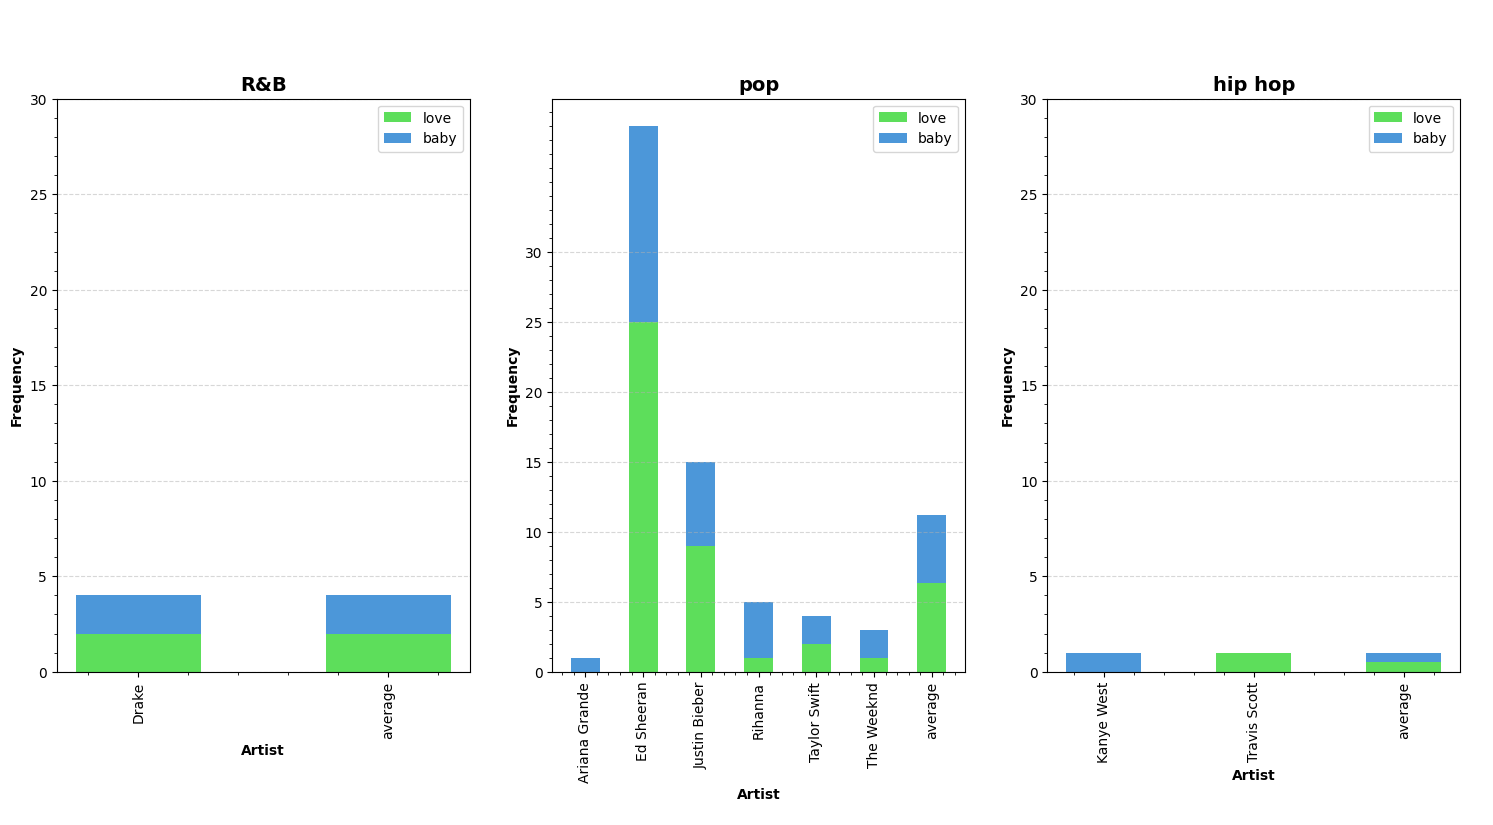
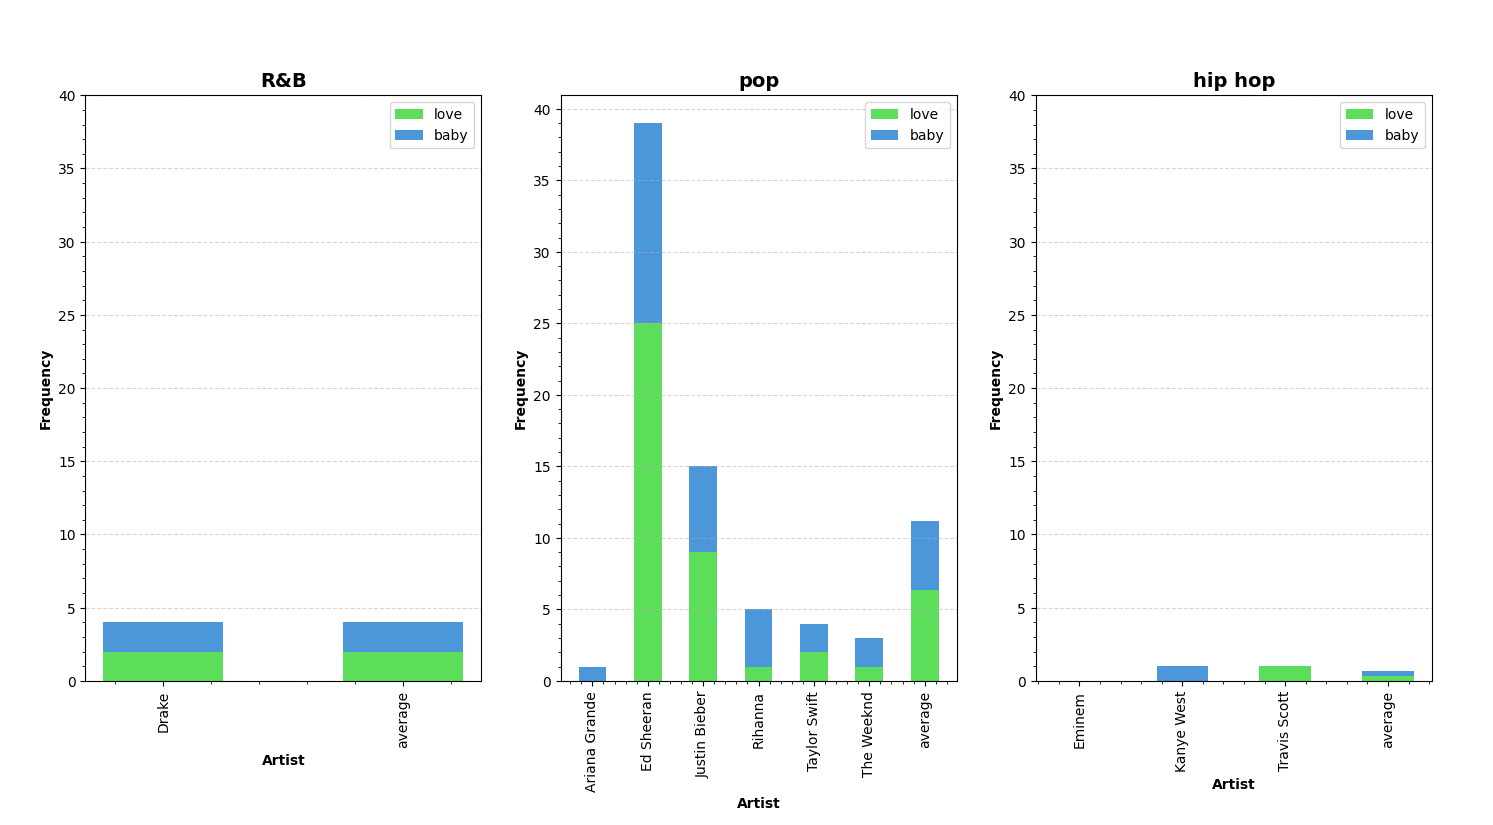
updating ReadMe

diff --git a/Python_scripts/Outputs_scripts/love_theme.py b/Python_scripts/Outputs_scripts/love_theme.py
@@ -14,10 +14,23 @@ with sqlite3.connect('song_lyrics.db') as connection:
     FROM lyrics l, song s
     WHERE (word = 'love' or word = 'baby') AND l.song_id = s.song_id'''
 
+    #make dataframe from query
     love_df = pd.DataFrame(cursor.execute(select_words_query).fetchall(), columns = ['word', 'frequency', 'genre', 'artist'])
+
+    #need to check for missing artist who do not use either word and add them to dataframe with frequency 0
+    select_artists_query = '''
+    SELECT artist, genre
+    FROM song;
+    '''
+    for artist, genre in cursor.execute(select_artists_query).fetchall():
+        if artist not in love_df['artist'].unique():
+            love_df = pd.concat([love_df, pd.DataFrame({'word': ['love', 'baby'], 'frequency': [0,0], 'genre': genre, 'artist': artist})]).reset_index(drop = True)
+    
+    
     #Make bar charts for each genre showing the frequenct for 'love' and 'baby' for each artist and an average across the genre
     #each genre on its own subplot. Stacked bar chart.
     fig, axs = plt.subplots(1,3)
+    #count variable will allow us to cycle through subplots for each genre
     count = 0
     #Want a chart for each genre, so loop through genres
     for genre in love_df['genre'].unique():
@@ -27,8 +40,6 @@ with sqlite3.connect('song_lyrics.db') as connection:
         add_zeros = pd.DataFrame(columns = ['word','frequency','genre','artist'])
         for artist in genre_love_df['artist'].unique():
             for word in ['love','baby']:
-                print(word)
-                print(str(genre_love_df['word'][genre_love_df['artist'] == artist]))
                 if word not in str(genre_love_df['word'][genre_love_df['artist'] == artist]):
                     add_zeros = pd.concat([add_zeros,pd.DataFrame({'word': word,'frequency': 0, 'genre': genre, 'artist': artist}, index = [len(add_zeros)])]).reset_index(drop = True)
                 else:
@@ -39,25 +50,21 @@ with sqlite3.connect('song_lyrics.db') as connection:
         genre_df = genre_love_df[['genre','word','frequency']].groupby(['genre','word'], as_index = False).mean()
         genre_df['artist'] = 'average'
         genre_love_df = pd.concat([genre_love_df, genre_df]).sort_values(by = ['artist','word']).reset_index(drop = True)
-        print(genre_love_df)
         #dictionary of lyric and frequencies
         lyrics = {
             'love': np.array(genre_love_df['frequency'][genre_love_df['word'] == 'love']),
             'baby': np.array(genre_love_df['frequency'][genre_love_df['word'] == 'baby'])
         }
-        print(lyrics.items())
-        print(genre_love_df['artist'].unique())
         
         #make stacked bar graphs
         bottom = 0
         for boolean, frequency in lyrics.items():
-            print('frequency; ', frequency)
             axs[count] = ax.bar(genre_love_df['artist'].unique(), frequency, width = 0.5, label = boolean, bottom = bottom, color = '#5dde5b' if boolean == 'love' else '#4c97d9')
             bottom += frequency
         
         #Format graph
         ax.set_title(genre, fontsize = 14, fontweight = 'bold')
-        ax.set_yticks(np.arange(0,31,5))
+        ax.set_yticks(np.arange(0,41,5))
         ax.minorticks_on()
         ax.set_ylabel('Frequency', fontweight = 'bold')
         ax.set_xlabel('Artist', fontweight = 'bold')

diff --git a/Python_scripts/Outputs_scripts/common_words_by_gender.py b/Python_scripts/Outputs_scripts/common_words_by_gender.py
@@ -4,6 +4,7 @@ import matplotlib.pyplot as plt
 import sqlite3
 
 #open sql connection
+#start with male artists
 with sqlite3.connect('song_lyrics.db') as connection:
     cursor = connection.cursor()
     #make queries to select words and frequency from lyrics
@@ -12,7 +13,7 @@ with sqlite3.connect('song_lyrics.db') as connection:
     FROM lyrics l , song s
     WHERE s.gender = 'male' AND l.song_id = s.song_id ;
     '''
-    #In order for our results to be interesting and tell us something, we want to disclude conjunctions and common words like the, and, a, and etc.
+    #In order for our results to provide useful insights, we want to disclude conjunctions and common words like the, and, a, and etc.
     eliminate = ['the','but','can','this','if','youre','and','a','to','of','in','is','you','that','it','for','an', 'was', 'on', 'i', 'me', 'its','with','just','my','im','your','we','be','your','get','got','so']
     #make dataframe of words
     common_words_df = pd.DataFrame(cursor.execute(select_words_query).fetchall()).groupby(0, as_index = False).sum().sort_values(by = 1,ascending = False)
@@ -34,7 +35,7 @@ with sqlite3.connect('song_lyrics.db') as connection:
     #Create wordcloud object
     wordcloud_male = WordCloud(width = 1000, height = 1000, margin = 0, background_color = 'white').generate_from_frequencies(frequencies)
 
-
+#repeat process for female artists
 with sqlite3.connect('song_lyrics.db') as connection:
     cursor = connection.cursor()
     #make queries to select words and frequency from lyrics
@@ -44,7 +45,7 @@ with sqlite3.connect('song_lyrics.db') as connection:
     WHERE s.gender = 'female' AND l.song_id = s.song_id ;
     '''
     #In order for our results to be interesting and tell us something, we want to disclude conjunctions and common words like the, and, a, and etc.
-    eliminate = ['umbrellaâellaâella','uhhuh','oh','ill','ooh','eh','yeah','the','but','can','this','if','youre','and','a','to','of','in','is','you','that','it','for','an', 'was', 'on', 'i', 'me', 'its','with','just','my','im','your','we','be','your','get','got','so']
+    eliminate = ['uhhuh','oh','ill','ooh','eh','yeah','the','but','can','this','if','youre','and','a','to','of','in','is','you','that','it','for','an', 'was', 'on', 'i', 'me', 'its','with','just','my','im','your','we','be','your','get','got','so']
     #make dataframe of words
     common_words_df = pd.DataFrame(cursor.execute(select_words_query).fetchall()).groupby(0, as_index = False).sum().sort_values(by = 1,ascending = False)
     #remove words
@@ -65,13 +66,18 @@ with sqlite3.connect('song_lyrics.db') as connection:
     #Create wordcloud object
     wordcloud_female = WordCloud(width = 1000, height = 1000, margin = 0, background_color = 'white').generate_from_frequencies(frequencies)
 
-
+#make wordclouds.
+#make subplots so both appear on same figure
 fig, ax = plt.subplots(1,2)
+
+#add wordclouds and titles
 ax[0].imshow(wordcloud_male, interpolation = 'bilinear')
 ax[0].set_title('Male Artists', fontweight = 'bold')
 
 ax[1].imshow(wordcloud_female, interpolation = 'bilinear')
 ax[1].set_title('Female Artists', fontweight = 'bold')
+
+#turn of axis
 ax[0].axis('off')
 ax[1].axis('off')
 plt.show()

diff --git a/Python_scripts/Outputs_scripts/common_words.py b/Python_scripts/Outputs_scripts/common_words.py
@@ -14,14 +14,13 @@ with sqlite3.connect('song_lyrics.db') as connection:
     SELECT word, frequency
     FROM lyrics;
     '''
-    #In order for our results to be interesting and tell us something, we want to disclude conjunctions and common words like the, and, a, and etc.
+    #In order for our results to provide useful insights, we want to disclude conjunctions and common words like the, and, a, and etc.
     eliminate = ['oh','eh','ill','ooh','eh','yeah','the','but','can','this','if','youre','and','a','to','of','in','is','you','that','it','for','an', 'was', 'on', 'i', 'me', 'its','with','just','my','im','your','we','be','your','get','got','so']
     
     #make dataframe of words
     common_words_df = pd.DataFrame(cursor.execute(select_words_query).fetchall()).groupby(0, as_index = False).sum().sort_values(by = 1,ascending = False)
     
     #Make original wordcloud for comparison
-    
     common_words_df_original = common_words_df.head(30).reset_index()
     frequencies_original = {}
     #make string for word cloud cleaned
@@ -31,8 +30,6 @@ with sqlite3.connect('song_lyrics.db') as connection:
 
     #Create wordcloud object
     wordcloud_original = WordCloud(width = 1000, height = 1000, margin = 0, background_color = 'white').generate_from_frequencies(frequencies_original)
-    
-
     
     #make cleaned wordcloud
     common_words_df_cleaned = common_words_df
@@ -54,16 +51,17 @@ with sqlite3.connect('song_lyrics.db') as connection:
     #Create wordcloud object
     wordcloud_cleaned = WordCloud(width = 1000, height = 1000, margin = 0, background_color = 'white').generate_from_frequencies(frequencies_cleaned)
     
-    fig, ax = plt.subplots(1,2)
+    #make subplots
+fig, ax = plt.subplots(1,2)
+
+#add wordcloud objects and titles
 ax[0].imshow(wordcloud_original, interpolation = 'bilinear')
 ax[0].set_title('Original Lyrics', fontweight = 'bold')
 
 ax[1].imshow(wordcloud_cleaned, interpolation = 'bilinear')
 ax[1].set_title('Cleaned Lyrics', fontweight = 'bold')
+
+#remove axis
 ax[0].axis('off')
 ax[1].axis('off')
 plt.show()
-    #plt.imshow(wordcloud, interpolation = 'bilinear')
-    #plt.axis('off')
-    #plt.margins(x=0,y=0)
-    #plt.show()

diff --git a/Python_scripts/Outputs_scripts/gender_genre_piecharts.py b/Python_scripts/Outputs_scripts/gender_genre_piecharts.py
@@ -14,18 +14,21 @@ with sqlite3.connect('song_lyrics.db') as connection:
     SELECT gender
     FROM song;
     '''
-
+    #make dataframe from query
     gender_df = pd.DataFrame(cursor.execute(select_gender_query))
+    #add count where each row is 1 and then group by gender and sum the frequency of count
     gender_df['count'] = 1
     gender_df = gender_df.groupby(0, as_index = False).sum()
             
-    #make the genre dataframe
+    #make the genre dataframe (repeating process from gender for genre)
     select_genre_query = '''
     SELECT genre
     FROM song;
     '''
 
+    #make query data into dataframe
     genre_df = pd.DataFrame(cursor.execute(select_genre_query))
+    #add a count to each row where it is 1 and group by genre, summing the frequency of count
     genre_df['count'] = 1
     genre_df = genre_df.groupby(0, as_index = False).sum()
 
@@ -33,6 +36,8 @@ with sqlite3.connect('song_lyrics.db') as connection:
     #split figure into two axis in order to display both pie charts on same graph
 
     fig, axs = plt.subplots(1,2)
+
+    #add pie charts and titles. Include percentage and labels, setting colors to match the other outputs.
     axs[0].pie(gender_df['count'], labels = gender_df[0], autopct='%1.1f%%', colors = ['#e067a2','#4c97d9'])
     axs[0].set_title('Artists by Gender', fontweight = 'bold')
     axs[1].pie(genre_df['count'], labels = genre_df[0], autopct='%1.1f%%', colors = ['#4c97d9','#e067a2','#5dde5b'])

diff --git a/Python_scripts/Webscraping_and_SQL_scripts/2_web_scraping_artists.py b/Python_scripts/Webscraping_and_SQL_scripts/2_web_scraping_artists.py
@@ -1,3 +1,4 @@
+#web-scraping for artists, their top song, and the streams for each.
 #ensure necessary libraries are installed in the command line using pip install
 #import libraries and website url
 import pandas as pd
@@ -6,6 +7,7 @@ import re
 import sqlite3
 url = 'https://kworb.net/spotify/artists.html'
 #from url, get the table of artists and their streams
+#as we are reading a table, can use pandas instead of beautiful soup
 table = pd.read_html(url)[0]
 
 #clean data by removing empty rows and columns. Only need artist name and total streams so remove the rest of the columns
@@ -22,6 +24,7 @@ top_artists = top_artists.head(10)
 #From a separate webpage, we want the table of top songs and their streams
 url_2 = 'https://kworb.net/spotify/songs.html#google_vignette'
 
+#read html and make into dataframe
 table_streams = pd.read_html(url_2)[0]
 table_streams = pd.DataFrame(table_streams)
 
@@ -91,6 +94,7 @@ with sqlite3.connect('song_lyrics.db') as connection:
     '''
     cursor.execute(clear_table_query)
     count = 0
+    #loop through artists in dataframe and add each to database
     for artist in top_artists['Artist']:
         insert_artist_query = '''
         INSERT INTO song(artist, total_streams, song, song_streams, gender, genre)

diff --git a/Python_scripts/Webscraping_and_SQL_scripts/1_making_databases.py b/Python_scripts/Webscraping_and_SQL_scripts/1_making_databases.py
@@ -3,12 +3,16 @@ import numpy as np
 import pandas as pd
 import sqlite3
 
+#open database connection
 with sqlite3.connect('song_lyrics.db') as connection:
         cursor = connection.cursor()
+        
         #make first table for artist and song and gender:
+        #run empty table query first to ensure there isnt duplicated data.
         empty_song_table_query = '''
         DROP TABLE IF EXISTS song;
         '''
+        #create table with song id as primary key, artist, total streams, song name, song streams, gender, genre
         create_artist_table_query = '''
             CREATE TABLE IF NOT EXISTS song(
             song_id INTEGER PRIMARY KEY AUTOINCREMENT,
@@ -37,6 +41,7 @@ with sqlite3.connect('song_lyrics.db') as connection:
             '''
         cursor.execute(empty_lyrics_table_query)
         cursor.execute(create_lyrics_table_query)
-        #Commit changes
-        print('successful')
+        
+        #Commit changes and print successful once everything has been able to run
         connection.commit()
+        print('successful')

diff --git a/Python_scripts/Webscraping_and_SQL_scripts/3_webscraping_lyrics.py b/Python_scripts/Webscraping_and_SQL_scripts/3_webscraping_lyrics.py
@@ -1,4 +1,5 @@
-#Attempting to loop through lists for webscraping
+#web-scraping lyrics from list of urls and adding them to database
+#import libraries
 from  bs4 import BeautifulSoup
 import requests as req
 import re as re
@@ -7,8 +8,10 @@ import numpy as np
 import time
 import sqlite3
 
+#open database connection
 with sqlite3.connect('song_lyrics.db') as connection:
     cursor = connection.cursor()
+    #get list of artists from song table to be made into dataframe
     artist_query = '''
     SELECT artist
     FROM song;
@@ -17,6 +20,8 @@ with sqlite3.connect('song_lyrics.db') as connection:
     lyrics_clear_query = '''
     DELETE FROM lyrics;
     '''
+    
+    #execute queries and make database from artist query
     cursor.execute(lyrics_clear_query)
     dataset = pd.DataFrame(cursor.execute(artist_query))
 
@@ -81,4 +86,5 @@ for webpage in url:
             data = (id, word,count)
             cursor.execute(insert_word_query, data)
 
+#commit chhanges to database
 connection.commit()

diff --git a/Python_scripts/Outputs_scripts/top_artists_streams_graph.py b/Python_scripts/Outputs_scripts/top_artists_streams_graph.py
@@ -44,8 +44,7 @@ ax.set_xticks(np.arange(0,7500, 500))
 plt.title('Top 10 Spotify Artists and their Total Streams', color = 'black', fontsize = 14, fontweight = 'bold')
 plt.grid(linestyle = '--', alpha = 0.5, axis = 'x')
 
-ax.legend(('Top Song',), loc = 'center right', fontsize = 'x-large')
-ax2.legend(('Total Streams',),loc = 'lower right', fontsize = 'x-large')
+plt.legend(handles = [ax2.patches[0], ax.patches[0]],labels = ['Total streams','Top Song Streams'],loc = 'lower right', fontsize = 'x-large')
 
 #show graph
 plt.show()
